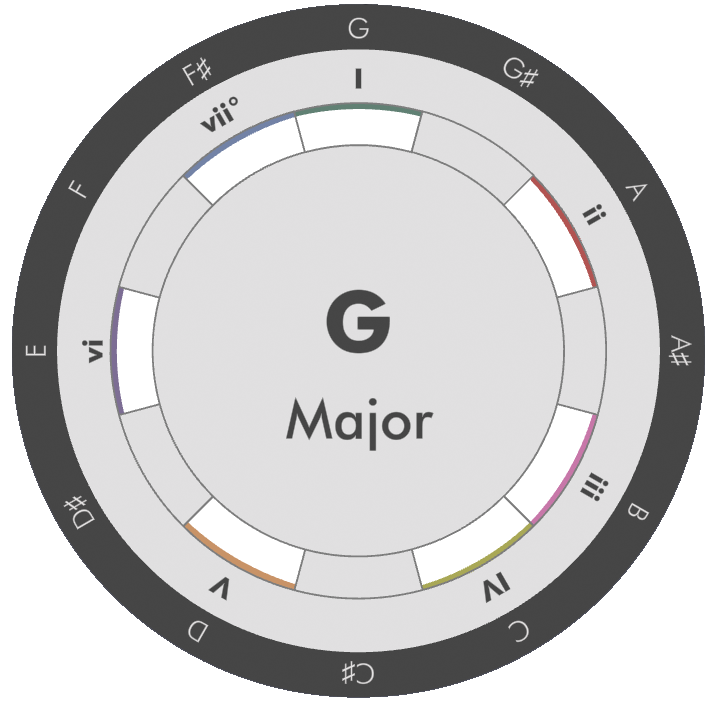
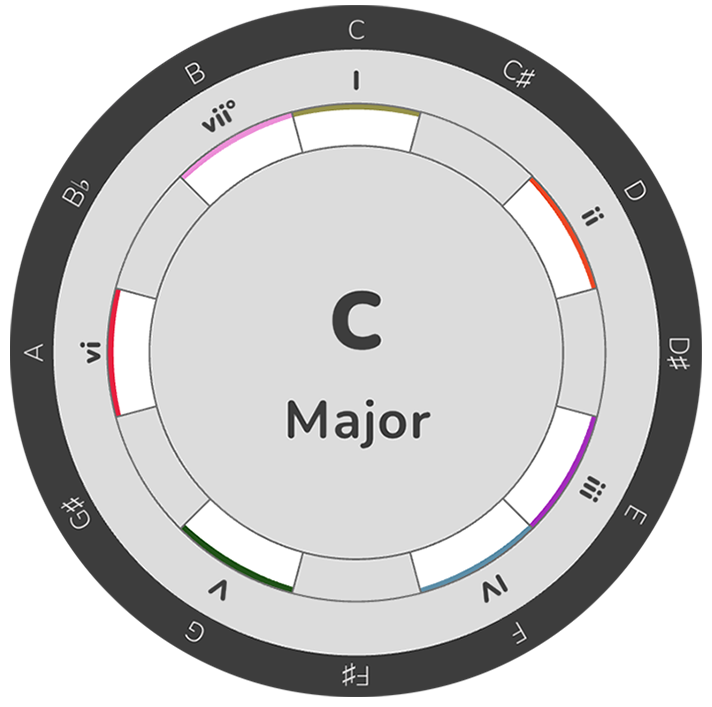
sh command line update

diff --git a/audiotheory-piano-keys-version-2.html b/audiotheory-piano-keys-version-2.html
@@ -3,7 +3,7 @@
 <html>
 <head>
 <meta charset="UTF-8" name="viewport" content="width=device-width, initial-scale=1">
-<title>Asio And Performance Update</title>
+<title>Audiotheory Piano Keys Version 2</title>
 <link rel="stylesheet" type= "text/css" href= "https://cdnjs.cloudflare.com/ajax/libs/slick-carousel/1.5.9/slick.min.css" />
 <link rel="stylesheet" type= "text/css" href= "https://cdnjs.cloudflare.com/ajax/libs/slick-carousel/1.5.9/slick-theme.min.css" />
 <link rel="stylesheet" type= "text/css" href= "style.css" />
@@ -122,102 +122,34 @@ window.__SJ_BAR_CLR__ = "#3e3e3e";
 </div>
 
 <div class="align-center-d article-title">
-    <h2><span class="main-title">AudioTheory</span><br>ASIO & Performance Updates</h2>
+    <h2><span class="main-title">AudioTheory Piano Keys</span><br>Version 2.0.0</h2>
 </div>
 <div class="half-space"></div>
 
 <div class="padded-container">
-    <img id="modalImage"onclick="openModal(this)" class="center-image feature-image-960 drop-shadow" src="images/AudioTheory-ASIO-gen-banner.jpg" alt="AudioTheory ASIO banner" />
+    <img id="modalImage"onclick="openModal(this)" class="center-image feature-image-960 drop-shadow" src="images/AudioTheory_Piano_Keys_2_title.jpg" alt="AudioTheory Piano Keys version 2.0" />
 </div>
 
 <!-- #region text block -->
 <div class="text-block padding-top padding-bottom">
     <!--&-->
-    A series of new updates are now available across the range of AudioTheory software. These combines a set of 'under the hood' optimisations and performance enhancing features which have been rolled out across the following updates:
-<br><br>
-AudioTheory Guitars version 2.1.0 and version 2.2.0<br>
-AudioTheory Piano Keys version 1.2.0 and version 1.3.0<br>
-AudioTheory Grids version 1.3.0
-<br><br>
-Let's have a look at what's new...
-    <!--&-->
-</div>
-<!-- #endregion text block -->
-
-<!--#region Text Block with subtitle-->
-<div class="text-block padding-top padding-bottom">
-    <!--&-->
-    <h3>
-    <div class="subtitle">AudioTheory and the ASIO4ALL driver</div>
-    </h3>
-    <!--&-->
-    ASIO4ALL is a freeware audio driver designed for low latency playback. Most DAWs require the use of an ASIO driver, and whilst it is optional for AudioTheory, it's highly recommended. It's very easy to install and you are guaranteed to get better performance than the built-in Windows driver.
-<br><br>
-And just to confirm, this is a Windows specific feature. Mac and Linux come with audio drivers that can handle very low latencies out-of-the-box. More on how the settings have changed on these platforms in a bit.
-    <!--&-->
-</div>
-<!--#endregion Text Block with subtitle-->
-
-<div class="padded-container">
-    <img id="modalImage"onclick="openModal(this)" class="center-image feature-image-960 drop-shadow" src="images/AudioTheory_Guitars_ASIO_01.png" alt="AudioTheory ASIO screenshot" />
-</div>
-
-<!--#region Text Block with subtitle-->
-<div class="text-block padding-top padding-bottom">
-    <!--&-->
-    <h3>
-    <div class="subtitle">Windows specific changes</div>
-    </h3>
-    <!--&-->
-    There are a few things now in place designed to help swap you over to the ASIO driver. If you load up the application without this installed you will see a one-time notification directing you to the ASIO4ALL website.
-<br><br>
-Once installed, the application will automatically swap to use the ASIO driver when its next loaded. You can see which driver is currently in use from the settings popup. Here can also swap driver using the dropdown, meaning you can revert back to the built-in driver if required. Any driver changes here require the application to be restarted before they take effect. Oh, and if you swap to ASIO here but the driver isn't installed then it's not going to work. In this scenario the application will prompt you to install it on your machine.
-<br><br>
-Please note that currently the option to record in AudioTheory Grids is only available when using the built-in driver. This works by directly capturing the audio output and writing it to a wav file, which can only happen when the built-in driver is being used to process audio. I am looking into an alternative method of supporting this feature with the ASIO driver, but unfortunately the options are somewhat limited. At least for now, the record button doesn't show if you're using ASIO.
-    <!--&-->
-</div>
-<!--#endregion Text Block with subtitle-->
-
-<div class="padded-container">
-    <img id="modalImage"onclick="openModal(this)" class="center-image feature-image-960 drop-shadow" src="images/AudioTheory_Guitars_ASIO_04.png" alt="AudioTheory ASIO screenshot" />
-</div>
-
-<!-- #region text block -->
-<div class="text-block padding-top padding-bottom">
-    <!--&-->
-    If the ASIO driver is in use, you will see a 'config.' button that lets you open up the ASIO4ALL settings. Here is where you configure your output device as well as the DSP buffer size. If you are not receiving any audio, the likely cause is that the correct output has not been selected here.
+    AudioTheory Piano Keys 2.0 is the biggest update yet. This new versions adds in many new features and improvements including faster tools for swapping chords, a new light theme, and a colour wheel for selecting the application colours.
     <!--&-->
 </div>
 <!-- #endregion text block -->
 
 <div class="padded-container">
-    <img id="modalImage"onclick="openModal(this)" class="center-image feature-image-960 drop-shadow" src="images/AudioTheory_Guitars_ASIO_05.png" alt="AudioTheory ASIO screenshot" />
+    <img id="modalImage"onclick="openModal(this)" class="center-image feature-image-960 drop-shadow" src="images/AudioTheory_Piano_Keys_2_01.jpg" alt="AudioTheory Piano Keys version 2.0" />
 </div>
 
 <!--#region Text Block with subtitle-->
 <div class="text-block padding-top padding-bottom">
     <!--&-->
     <h3>
-    <div class="subtitle">Mac and Linux changes</div>
+    <div class="subtitle">Quick Select Chord Types</div>
     </h3>
     <!--&-->
-    These still use the DSP latency settings that were previously in place. As above, the built-in drivers are able to support low latency without the need for an external driver. However I have swapped over the selector to a new dropdown which makes it a bit quicker and easier to select the value you're after.
-    <!--&-->
-</div>
-<!--#endregion Text Block with subtitle-->
-
-<div class="padded-container">
-    <img id="modalImage"onclick="openModal(this)" class="center-image feature-image-960 drop-shadow" src="images/AudioTheory_Guitars_ASIO_07.png" alt="AudioTheory ASIO screenshot" />
-</div>
-
-<!--#region Text Block with subtitle-->
-<div class="text-block padding-top padding-bottom">
-    <!--&-->
-    <h3>
-    <div class="subtitle">Velocity Playback</div>
-    </h3>
-    <!--&-->
-    MIDI input playback now registered the note press velocity, meaning the playback volume is controlled by how hard you are pressing the notes. This helps better simulate the effect of a real instrument.
+    Previously, loading a new chord required finding and selecting it within the chord library. It's still possible to do this, but now there's also a dropdown that you can use to swap chord type much quicker. If you already know what cord you're after – this is a simpler and faster way to load it.
     <!--&-->
 </div>
 <!--#endregion Text Block with subtitle-->
@@ -226,33 +158,111 @@ Please note that currently the option to record in AudioTheory Grids is only ava
 <div class="text-block padding-bottom">
     <!--&-->
     <h3>
-    <div class="subtitle">Variable Render Rate</div>
+    <div class="subtitle">Locked & Unlocked mode</div>
     </h3>
     <!--&-->
-    The display no longer updates when it doesn't need to. This works well because there are many scenarios where you may find the software idling, it is after all reference material so it makes sense to leave it open up on screen. The software now looks out for these moments and greatly reduces the CPU overhead when possible, before seamlessly resuming to business as usual when any sort of input (or any action that results in a visible change on screen) is detected.
+    Initially designed to solve some UI challenges specific to <a class="url-dark-green" href="guitars.html">AudioTheory Guitars</a>, adding the same features here then became an obvious next step.<br><br>The application can now be toggled between an unlocked 'edit' mode and a locked 'view' mode the padlock icon in the top right. As well as the dropdown for selecting the chord type, numerous existing features have been moved into the 'edit' view, and you can now easily show or hide these as required.
+    <!--&-->
+</div>
+<!--#endregion Text Block with subtitle-->
+
+<!--#region Text Block with subtitle-->
+<div class="text-block padding-bottom">
+    <!--&-->
+    <h3>
+    <div class="subtitle">New menu bar</div>
+    </h3>
+    <!--&-->
+    To support the changes above, a new menu bar has been added and numerous options now live here. It's where you can now find the chord and scales libraries, as well as ear training mode.
     <!--&-->
 </div>
 <!--#endregion Text Block with subtitle-->
 
 <div class="padded-container">
-    <img id="modalImage"onclick="openModal(this)" class="center-image feature-image-960 drop-shadow" src="images/AudioTheory-out-of-focus.png" alt="AudioTheory Out of Focus screenshot" />
+    <img id="modalImage"onclick="openModal(this)" class="center-image feature-image-960 drop-shadow" src="images/AudioTheory_Piano_Keys_2_04.jpg" alt="AudioTheory Piano Keys version 2.0" />
 </div>
 
 <!--#region Text Block with subtitle-->
-<div class="text-block padding-top ">
+<div class="text-block padding-top padding-bottom">
     <!--&-->
     <h3>
-    <div class="subtitle">Run 'Out of Focus'</div>
+    <div class="subtitle">Light theme</div>
     </h3>
     <!--&-->
-    The default behaviour of the application has changed so that it pauses running if the window is not in focus. This makes it a lot more practical to leave open in the background.
-<br><br>
-Originally this was not set because I imagined scenarios where it would be useful to poll for MIDI input when using the application alongside a DAW or other piece of software (e.g. you could be working in Logic on one screen and have AudioTheory running in the background on a second monitor). This may still be the case, so if your requirements do in fact mean that it's desirable for the application to run out of focus, then you can turn this back on in the settings.
+    A brand-new look is here in the form of the light theme. This mode is perfect if you want to print out a physical copy of your diagrams.
     <!--&-->
 </div>
 <!--#endregion Text Block with subtitle-->
 
-<div class="text-block  padding-bottom">
+<!--#region Text Block with subtitle-->
+<div class="text-block padding-bottom">
+    <!--&-->
+    <h3>
+    <div class="subtitle">Colour wheel</div>
+    </h3>
+    <!--&-->
+    The options screen has been rebuilt as a larger popup. It now includes a colour wheel so you can quickly change the per-note colours. This builds upon the custom colour functionality introduced in AudioTheory Piano Keys 1.5.0, and the colours can still be modified directly in the .ini file if you'd prefer, but now you can easily update the colours at runtime using the new selector. There's also the option to set a colour by hex value, and a set of alternate colours (the ones seen in some of the screenshots) that can be loaded at the press of a button.
+    <!--&-->
+</div>
+<!--#endregion Text Block with subtitle-->
+
+<div class="padded-container">
+    <img id="modalImage"onclick="openModal(this)" class="center-image feature-image-960 drop-shadow" src="images/AudioTheory_Piano_Keys_2_12.jpg" alt="AudioTheory Piano Keys version 2.0 options" />
+</div>
+
+<!--#region Text Block with subtitle-->
+<div class="text-block padding-top padding-bottom">
+    <!--&-->
+    <h3>
+    <div class="subtitle">Relative note display updates</div>
+    </h3>
+    <!--&-->
+    A few changes have been made to improve how the application handles relative note name formats (Degrees, Roman numerals and movable do). These now display relative to the last selected scale, rather than the current scale. This has the effect of allowing you to subtract notes from the scale and still see the relative intervals for what's left. E.g. if you were to start out with C major you could then remove D, F, A and B to be left with C, E and G, which would be labelled as 1, 3 and 5 respectively.  To further support this, auto scale matching now only checks the current scale set group, as well as and the regular major and minor scales. This prevents accidentally swapping to the pentatonic scale of another key (e.g. G A B D E can be viewed as a subsection of C major, and won't automatically swap to G major pentatonic in this situation). 
+    <!--&-->
+</div>
+<!--#endregion Text Block with subtitle-->
+
+<div class="padded-container">
+    <img id="modalImage"onclick="openModal(this)" class="center-image feature-image-960 drop-shadow" src="images/AudioTheory_Piano_Keys_2_14.jpg" alt="AudioTheory Piano Keys version 2.0" />
+</div>
+
+<!--#region Text Block with subtitle-->
+<div class="text-block padding-top padding-bottom">
+    <!--&-->
+    <h3>
+    <div class="subtitle">And the rest...</div>
+    </h3>
+    <!--&-->
+    There's a whole load of bug fixes and other things that have made it into this update too:
+<ul>
+<li>Revised application colours and fonts for a modern new look</li>
+<li>Real-Time Scale Highlighting now only updates when the pressed note is enabled in the note selector (i.e. it doesn't update if the key you're pressing is greyed out)</li>
+<li>The settings now include an option to offset the octave at which piano chords are played at/ highlighted</li>
+<li>The settings now include an option to turn off input highlighting across the piano chord set in the main application view</li>
+<li>The note selector now highlights any note added in using the colour it will display as</li>
+<li>The loaded preset name is now an input field that can be edited directly</li>
+<li>Fixed Do: Option to set Si or Ti as the 7th note in the scale</li>
+<li>Movable Do: bugs fixed and new option to set minor scale as 'La-based' or 'Do-based'</li>
+<li>The 'clear highlighting' delay time for the 'high' setting has been increased from 1 second to 2 seconds</li>
+<li>You can now click on the scale name in the bottom left to swap between the major and relative minor scales</li>
+<li>'Interval' label corrected to 'Degrees'</li>
+<li>Splash screen has been removed</li>
+<li>Mode labels now correctly update to major or minor</li>
+<li>Engine upgrade</li>
+<li>Miscellaneous performance enhancements</li>
+<li>Chords now correctly auto load when swapping between major scales</li>
+<li>Scale name label is now in sync with sharp/ flat display</li>
+<li>Bug fixes for piano training modes</li>
+<li>Fixed an issue with the audio latency value not displaying correctly on MacOS</li>
+<li>Fixed an issue where piano chords would not play back at the correct octave when certain keyboard sizes were used</li>
+<li>Hotkeys can no longer be pressed when an input field is active</li>
+<li>Black key highlighting is now consistent between mini-keyboards and the main keyboard</li>
+</ul>
+    <!--&-->
+</div>
+<!--#endregion Text Block with subtitle-->
+
+<div class="text-block padding-top padding-bottom">
         <div class="dashed-line faq-break"></div>
         All updates are free for owners of AudioTheory Guitars. If you purchased directly then you can download the latest version from your Gumroad account. 
         For Steam users, new updates can be downloaded through the Steam client. 

diff --git a/audiotheory-guitars-version-3.html b/audiotheory-guitars-version-3.html
@@ -245,59 +245,6 @@ One final thing, the binary name has now changed. Originally just titled 'Guitar
 <!--F-->
 <!--#endregion-->
 
-<div class="dashed-line faq-break"></div>
-
-<div class="inline-button-container">
-    <div class="align-center-d text-block button-intro">
-        <p>
-        AudioTheory Guitars is available for <strong>$6.99</strong>. This includes all features and future updates.
-        </p><div class="desktop-only"><br></div>
-        <div class="break-m"></div>
-
-        It can be downloaded dirctly, through Steam, or the Mac App Store.
-        <p></p>
-    </div>
-
-    <div class="align-center display-inline-block mobile-block-button">
-        <a href="https://store.steampowered.com/app/1176110/AudioTheory_Guitars/" class="no-decoration" onclick="gtag('event','purchase Steam');">
-        <div class="home-button inline-button"> Steam
-            <img class="steam-logo" src="images/steam-logo-s.png">
-
-        </div>
-        </a>
-    </div>
-
-    <div class="align-center display-inline-block button-rh mobile-block-button">
-        <a href="https://apps.apple.com/gb/app/audiotheory-guitars/id1492337444" class="no-decoration" onclick="gtag('event','purchase Mac App Store');">
-        <div class="home-button inline-button">
-                Mac App Store
-        </div>
-        </a>
-    </div>
-
-    <div class="align-center display-inline-block button-rh mobile-block-button">
-        <a href="https://gumroad.com/l/audiotheory" class="no-decoration" onclick="gtag('event','purchase direct (body)');">
-        <div class="home-button inline-button">
-                Purchase Direct
-        </div>
-        </a>
-    </div>
-</div>
-
-<div class="dashed-line faq-break"></div>
-
-<div class="text-block padding-bottom">
-        All updates are free for owners of AudioTheory Guitars. If you purchased directly then you can download the latest version from your Gumroad account. 
-        For Steam users, new updates can be downloaded through the Steam client. 
-        <br><br>For new customers, you will be purchasing and downloading the latest version.
-</div>
-<div class="padded-container">
-    <img id="modalImage"onclick="openModal(this)" class="center-image feature-image-960 drop-shadow" src="images/a-chord-pressed-overlay.png" alt="barre chord note playback" />
-</div>
-
-<!--F-->
-<!--#endregion-->
-
 <!--#region footer-->
 <div class="align-center-d text-block padding-top">
 <!--Signup Form-->

diff --git a/index.html b/index.html
@@ -177,6 +177,22 @@ window.__SJ_BAR_CLR__ = "#3e3e3e";
 <!--^-->
 <div class="article-slider-item">
     <article class="grid-article-outline">
+        <a href="audiotheory-piano-keys-version-2.html" class="">
+            <div class="gridImage"><img src="images/update-preview-banners/update-thumbnail-31.jpg" alt="update-preview-banners/update-thumbnail-31"></div>
+        </a>
+        <div class="inner-article-padding">
+        <span class="grid-item-title-l">AudioTheory Piano Keys Version 2.0.0 Update</span> 
+        <span class="grid-item-description-l">A giant leap forward for AudioTheory Piano Keys.</span>
+        <div class="read-more-bottom-section">
+            <span class="grid-item-note-l"><a class="url-dark-green" href="audiotheory-piano-keys-version-2.html"><img class="read-more-arrow" src="images/read-more-arrow.svg" alt="read more arrow"><span class="more-text">read more</span></a></span>
+        </div>
+        </div>
+    </article>                        
+</div>
+<!--^-->
+<!--^-->
+<div class="article-slider-item">
+    <article class="grid-article-outline">
         <a href="audiotheory-guitars-version-3.html" class="">
             <div class="gridImage"><img src="images/update-preview-banners/update-thumbnail-30.jpg" alt="update-preview-banners/update-thumbnail-30"></div>
         </a>

diff --git a/style.css b/style.css
@@ -1808,7 +1808,7 @@ p {
     margin-left: 40px;
 }
 .subtitle {
-    padding-bottom: 25px;
+    padding-bottom: 10px;
 }
 h3 {
     margin-top: 0px !important;
